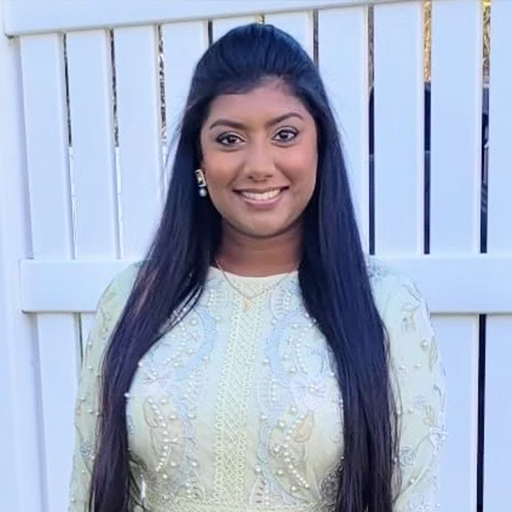
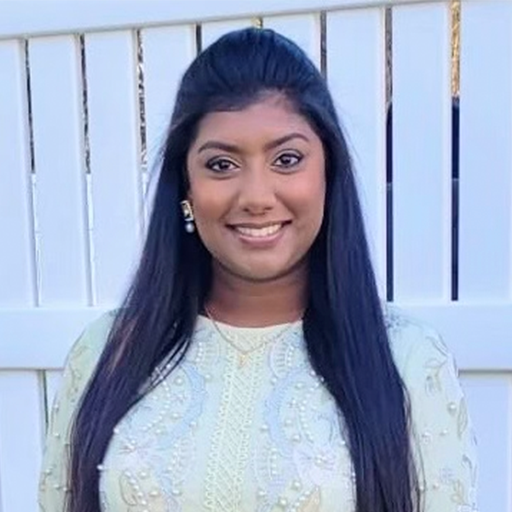
Adding names and pictures

diff --git a/index.html b/index.html
@@ -65,7 +65,7 @@
   <section id="hero" class="d-flex flex-column align-items-center justify-content-center">
     <div class="mt-auto hero-container align-self-center" data-aos="fade-in">
       <h1 style="font-family: 'Cinzel Decorative', serif;">Jasmine & Aaron</h1>
-      <p><span style="font-family: 'Lora', serif;" class="typed" data-typed-items="Hi!,I'm Jasmine,I'm Aaron,We're the Philiposes ...,We're the Philiposes ... almost"></span></p>
+      <p><span style="font-family: 'Lora', serif; white-space: pre;" class="typed" data-typed-items="Hi!,I'm Jasmine,I'm Aaron,We're the Philiposes...,We're the Philiposes... <br/>almost"></span></p>
     </div>
     <h3 style="font-family: 'Lora', serif; text-align: center; min-height: 2.1rem;" class="mt-auto align-items-center hero-container fadeIn" id="date-countdown"></h3>
   </section><!-- End Hero -->
@@ -108,7 +108,7 @@
               <p>Quia nobis sequi est occaecati aut. Repudiandae et iusto quae reiciendis et quis Eius vel ratione eius unde vitae rerum voluptates asperiores voluptatem Earum molestiae consequatur neque etlon sader mart dila</p>
             </div>
           </div>
-          <div class="col-6 col-lg-6 aos-init aos-animate" data-aos="fade-up" data-aos-delay="100">
+          <div class="col-lg-6 aos-init aos-animate" data-aos="fade-up" data-aos-delay="100">
             <h3 class="resume-title">Professional Experience</h3>
             <div class="resume-item">
               <h4>Senior graphic design specialist</h4>
@@ -161,7 +161,7 @@
               <li data-filter="*" class="filter-active">All</li>
               <li data-filter=".filter-bridesmaid">Bridesmaids</li>
               <li data-filter=".filter-groomsman">Groomsmen</li>
-              <li data-filter=".filter-honoured">Honoured</li>
+              <li data-filter=".filter-honoured">Honour Attendants</li>
             </ul>
           </div>
         </div>
@@ -170,7 +170,7 @@
             <div class="portfolio-wrap">
               <img src="assets/img/portfolio/Kesia.png" class="img-fluid" alt="">
               <div class="portfolio-links">
-                <a href="assets/img/portfolio/Kesia.png">Kesia</a>
+                <a>Kesia - Maid of Honour</a>
               </div>
             </div>
           </div>
@@ -178,8 +178,7 @@
             <div class="portfolio-wrap">
               <img src="assets/img/portfolio/Rebecca.png" class="img-fluid" alt="">
               <div class="portfolio-links">
-                <a href="assets/img/portfolio/Rebecca.png" data-gallery="portfolioGallery" class="portfolio-lightbox" title="Web 3"><i class="bx bx-plus"></i></a>
-                <a href="portfolio-details.html" title="More Details"><i class="bx bx-link"></i></a>
+                <a>Rebecca - Matron of Honour</a>
               </div>
             </div>
           </div>
@@ -187,17 +186,15 @@
             <div class="portfolio-wrap">
               <img src="assets/img/portfolio/Christie.png" class="img-fluid" alt="">
               <div class="portfolio-links">
-                <a href="assets/img/portfolio/Christie.png" data-gallery="portfolioGallery" class="portfolio-lightbox" title="App 3"><i class="bx bx-plus"></i></a>
-                <a href="portfolio-details.html" title="More Details"><i class="bx bx-link"></i></a>
+                <a>Christie</a>
               </div>
             </div>
           </div>
           <div class="col-6 col-lg-3 col-md-6 portfolio-item filter-bridesmaid">
             <div class="portfolio-wrap">
-              <img src="assets/img/portfolio/Celia.png" class="img-fluid" alt="">
+              <img src="assets/img/portfolio/Celia-2.png" class="img-fluid" alt="">
               <div class="portfolio-links">
-                <a href="assets/img/portfolio/Celia.png" data-gallery="portfolioGallery" class="portfolio-lightbox" title="Card 1"><i class="bx bx-plus"></i></a>
-                <a href="portfolio-details.html" title="More Details"><i class="bx bx-link"></i></a>
+                <a>Celia</a>
               </div>
             </div>
           </div>
@@ -205,8 +202,7 @@
             <div class="portfolio-wrap">
               <img src="assets/img/portfolio/Supriya.png" class="img-fluid" alt="">
               <div class="portfolio-links">
-                <a href="assets/img/portfolio/Supriya.png" data-gallery="portfolioGallery" class="portfolio-lightbox" title="App 2"><i class="bx bx-plus"></i></a>
-                <a href="portfolio-details.html" title="More Details"><i class="bx bx-link"></i></a>
+                <a>Supriya</a>
               </div>
             </div>
           </div>
@@ -214,26 +210,23 @@
             <div class="portfolio-wrap">
               <img src="assets/img/portfolio/Minu.png" class="img-fluid" alt="">
               <div class="portfolio-links">
-                <a href="assets/img/portfolio/Minu.jpg" data-gallery="portfolioGallery" class="portfolio-lightbox" title="Card 2"><i class="bx bx-plus"></i></a>
-                <a href="portfolio-details.html" title="More Details"><i class="bx bx-link"></i></a>
+                <a>Minu</a>
               </div>
             </div>
           </div>
           <div class="col-6 col-lg-3 col-md-6 portfolio-item filter-bridesmaid">
             <div class="portfolio-wrap">
               <img src="assets/img/portfolio/Reena.png" class="img-fluid" alt="">
-              <!-- <div class="portfolio-links">
-                <a class="portfolio-lightbox" title="Reena">Reena<i class="bx"></i></a>
-                <a class="portfolio-lightbox">Bridesmaid<i class="bx"></i></a>
-              </div> -->
+              <div class="portfolio-links">
+                <a>Reena</a>
+              </div>
             </div>
           </div>
           <div class="col-6 col-lg-3 col-md-6 portfolio-item filter-bridesmaid">
             <div class="portfolio-wrap">
               <img src="assets/img/portfolio/Shalini.png" class="img-fluid" alt="">
               <div class="portfolio-links">
-                <a href="assets/img/portfolio/Shalini.jpg" data-gallery="portfolioGallery" class="portfolio-lightbox" title="Web 2"><i class="bx bx-plus"></i></a>
-                <a href="portfolio-details.html" title="More Details"><i class="bx bx-link"></i></a>
+                <a>Shalini</a>
               </div>
             </div>
           </div>
@@ -241,8 +234,7 @@
             <div class="portfolio-wrap">
               <img src="assets/img/portfolio/Jocelyn.png" class="img-fluid" alt="">
               <div class="portfolio-links">
-                <a href="assets/img/portfolio/Jocelyn.png" data-gallery="portfolioGallery" class="portfolio-lightbox" title="Card 3"><i class="bx bx-plus"></i></a>
-                <a href="portfolio-details.html" title="More Details"><i class="bx bx-link"></i></a>
+                <a>Jocelyn</a>
               </div>
             </div>
           </div>
@@ -250,8 +242,7 @@
             <div class="portfolio-wrap">
               <img src="assets/img/portfolio/Erika.png" class="img-fluid" alt="">
               <div class="portfolio-links">
-                <a href="assets/img/portfolio/Erika.png" data-gallery="portfolioGallery" class="portfolio-lightbox" title="Web 3"><i class="bx bx-plus"></i></a>
-                <a href="portfolio-details.html" title="More Details"><i class="bx bx-link"></i></a>
+                <a>Erika</a>
               </div>
             </div>
           </div>
@@ -259,8 +250,7 @@
             <div class="portfolio-wrap">
               <img src="assets/img/portfolio/Michael.png" class="img-fluid" alt="">
               <div class="portfolio-links">
-                <a href="assets/img/portfolio/Michael.png" data-gallery="portfolioGallery" class="portfolio-lightbox" title="Web 3"><i class="bx bx-plus"></i></a>
-                <a href="portfolio-details.html" title="More Details"><i class="bx bx-link"></i></a>
+                <a>Michael - Best Man</a>
               </div>
             </div>
           </div>
@@ -269,8 +259,7 @@
             <div class="portfolio-wrap">
               <img src="assets/img/portfolio/Stephen.png" class="img-fluid" alt="">
               <div class="portfolio-links">
-                <a href="assets/img/portfolio/Stephen.png" data-gallery="portfolioGallery" class="portfolio-lightbox" title="App 2"><i class="bx bx-plus"></i></a>
-                <a href="portfolio-details.html" title="More Details"><i class="bx bx-link"></i></a>
+                <a>Siby - Best Man</a>
               </div>
             </div>
           </div>
@@ -279,8 +268,7 @@
             <div class="portfolio-wrap">
               <img src="assets/img/portfolio/Benjamin.png" class="img-fluid" alt="">
               <div class="portfolio-links">
-                <a href="assets/img/portfolio/Benjamin.png" data-gallery="portfolioGallery" class="portfolio-lightbox" title="Card 2"><i class="bx bx-plus"></i></a>
-                <a href="portfolio-details.html" title="More Details"><i class="bx bx-link"></i></a>
+                <a>Nebu</a>
               </div>
             </div>
           </div>
@@ -288,8 +276,7 @@
             <div class="portfolio-wrap">
               <img src="assets/img/portfolio/Haris.png" class="img-fluid" alt="">
               <div class="portfolio-links">
-                <a href="assets/img/portfolio/Haris.png" data-gallery="portfolioGallery" class="portfolio-lightbox" title="Web 2"><i class="bx bx-plus"></i></a>
-                <a href="portfolio-details.html" title="More Details"><i class="bx bx-link"></i></a>
+                <a>Haris</a>
               </div>
             </div>
           </div>
@@ -297,8 +284,7 @@
             <div class="portfolio-wrap">
               <img src="assets/img/portfolio/George.png" class="img-fluid" alt="">
               <div class="portfolio-links">
-                <a href="assets/img/portfolio/George.png" data-gallery="portfolioGallery" class="portfolio-lightbox" title="Card 1"><i class="bx bx-plus"></i></a>
-                <a href="portfolio-details.html" title="More Details"><i class="bx bx-link"></i></a>
+                <a>George</a>
               </div>
             </div>
           </div>
@@ -306,8 +292,7 @@
             <div class="portfolio-wrap">
               <img src="assets/img/portfolio/Jeremy.png" class="img-fluid" alt="">
               <div class="portfolio-links">
-                <a href="assets/img/portfolio/Jeremy.png" data-gallery="portfolioGallery" class="portfolio-lightbox" title="App 3"><i class="bx bx-plus"></i></a>
-                <a href="portfolio-details.html" title="More Details"><i class="bx bx-link"></i></a>
+                <a>Jeremy</a>
               </div>
             </div>
           </div>
